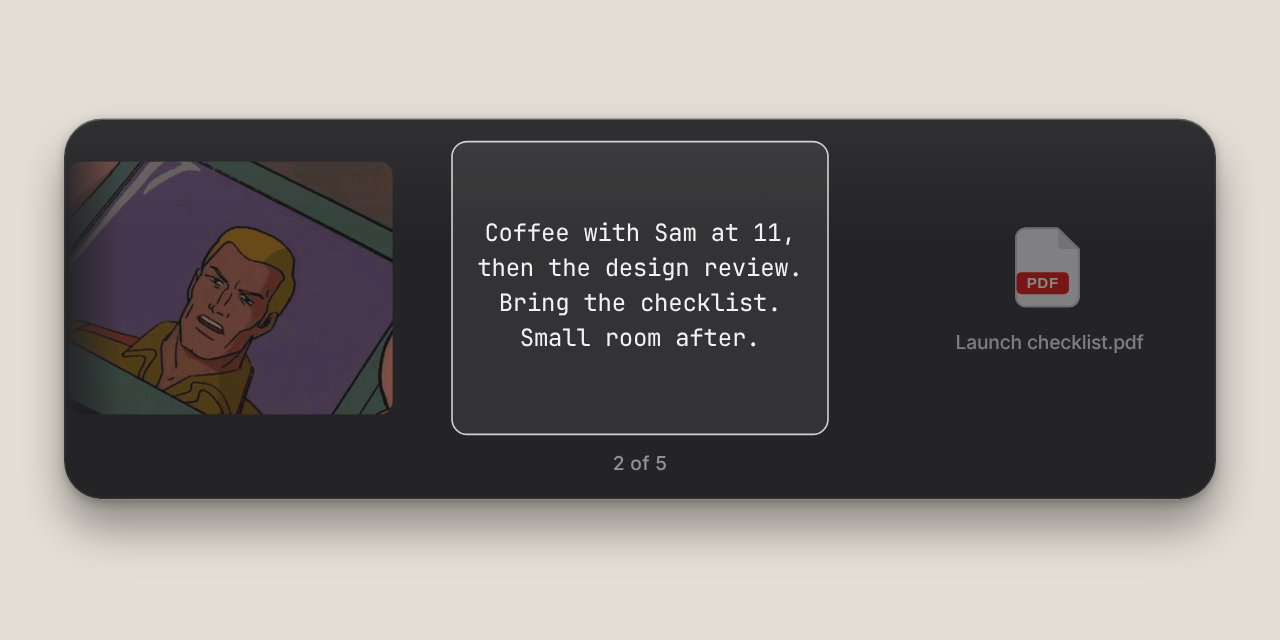
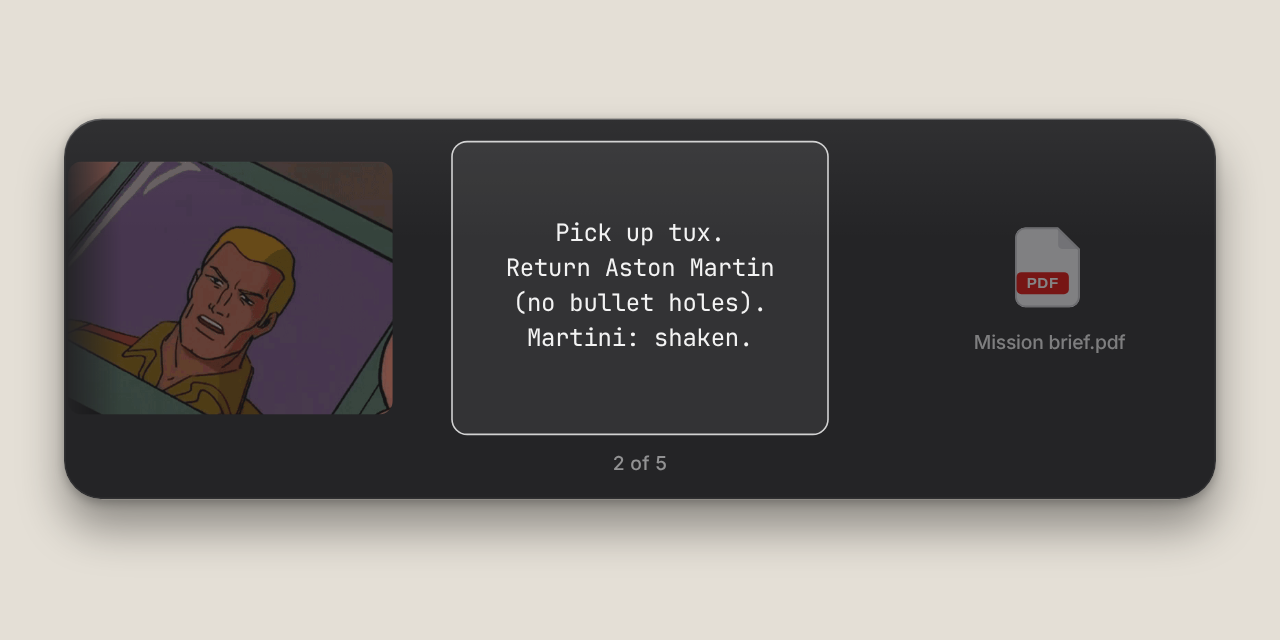
Replace the bezel sample with a shorter note
The demo line is four lines, from picking up the tux to the martini, and the file beside it is Mission brief.pdf. The lab frames were reshot from that copy.

Changed region(s): [[0.375, 0.4062, 0.625, 0.5625], [0.375, 0.3438, 0.625, 0.375], [0.75, 0.5312, 0.9062, 0.5625]]

diff --git a/lab/bezel-2/frames.html b/lab/bezel-2/frames.html
@@ -23,10 +23,10 @@
           <div class="ring"></div>
           <div class="strip">
             <div class="item image pos-l"><img src="assets/portrait.png" alt=""></div>
-            <div class="item text pos-c"><p>Coffee with Sam at 11,<br>then the design review.<br>Bring the checklist.<br>Small room after.</p></div>
+            <div class="item text pos-c"><p>Pick up tux.<br>Return Aston Martin<br>(no bullet holes).<br>Martini: shaken.</p></div>
             <div class="item file pos-r">
               <img class="glyph" src="assets/pdf.svg" alt="">
-              <span class="name">Launch checklist.pdf</span>
+              <span class="name">Mission brief.pdf</span>
             </div>
           </div>
           <p class="counter">2 of 5</p>
@@ -43,10 +43,10 @@
         <div class="surface">
           <div class="strip">
             <div class="item image pos-l"><img src="assets/portrait.png" alt=""></div>
-            <div class="item text pos-c"><p>Coffee with Sam at 11,<br>then the design review.<br>Bring the checklist.<br>Small room. Send notes<br>once you leave, and<br>the file with them.</p></div>
+            <div class="item text pos-c"><p>Pick up tux.<br>Return Aston Martin<br>(no bullet holes).<br>Martini: shaken.</p></div>
             <div class="item file pos-r">
               <img class="glyph" src="assets/pdf.svg" alt="">
-              <span class="name">Launch checklist.pdf</span>
+              <span class="name">Mission brief.pdf</span>
             </div>
           </div>
           <p class="counter">2 of 5</p>
@@ -63,11 +63,11 @@
       <div class="bezel">
         <div class="surface">
           <div class="strip">
-            <div class="item text pos-l"><p>Coffee with Sam at 11,<br>then the design review.<br>Bring the checklist.<br>Small room after.</p></div>
+            <div class="item text pos-l"><p>Pick up tux.<br>Return Aston Martin<br>(no bullet holes).<br>Martini: shaken.</p></div>
             <div class="item image pos-c"><img src="assets/portrait.png" alt=""></div>
             <div class="item file pos-r">
               <img class="glyph" src="assets/pdf.svg" alt="">
-              <span class="name">Launch checklist.pdf</span>
+              <span class="name">Mission brief.pdf</span>
             </div>
           </div>
           <p class="counter">2 of 5</p>
@@ -81,21 +81,21 @@
     <p class="idea">Opened over a note. The diary line stays outside the glass.</p>
     <div class="stage v4">
       <p class="kicker">Thursday</p>
-      <p class="lead">Sam at eleven.</p>
+      <p class="lead">Pick up tux.</p>
       <div class="bezel">
         <div class="surface">
           <div class="strip">
             <div class="item image pos-l"><img src="assets/portrait.png" alt=""></div>
-            <div class="item text pos-c"><p>Coffee with Sam at 11,<br>then the design review.<br>Bring the checklist.<br>Small room after.</p></div>
+            <div class="item text pos-c"><p>Pick up tux.<br>Return Aston Martin<br>(no bullet holes).<br>Martini: shaken.</p></div>
             <div class="item file pos-r">
               <img class="glyph" src="assets/pdf.svg" alt="">
-              <span class="name">Launch checklist.pdf</span>
+              <span class="name">Mission brief.pdf</span>
             </div>
           </div>
           <p class="counter">2 of 5</p>
         </div>
       </div>
-      <p class="tail">Then the design review.</p>
+      <p class="tail">Martini: shaken.</p>
     </div>
   </section>
 
@@ -106,10 +106,10 @@
       <div class="bezel">
         <div class="surface">
           <div class="strip">
-            <div class="item text pos-l"><p>Coffee with Sam at 11,<br>then the design review.<br>Bring the checklist.<br>Small room after.</p></div>
+            <div class="item text pos-l"><p>Pick up tux.<br>Return Aston Martin<br>(no bullet holes).<br>Martini: shaken.</p></div>
             <div class="item file pos-c">
               <img class="glyph" src="assets/pdf.svg" alt="">
-              <span class="name">Launch checklist.pdf</span>
+              <span class="name">Mission brief.pdf</span>
             </div>
             <div class="item text pos-r"><p>git rebase<br>--autosquash<br>origin/main</p></div>
           </div>

diff --git a/Sources/RogerShot/DemoShot.swift b/Sources/RogerShot/DemoShot.swift
@@ -55,10 +55,15 @@ enum DemoShot: String {
     func seed(into store: HistoryStore, photo: URL?) {
         store.recordText("https://github.com/GeorgeGally/roger/releases")
         store.recordText("git rebase --autosquash origin/main")
-        let file = directory.appendingPathComponent("Launch checklist.pdf")
+        let file = directory.appendingPathComponent("Mission brief.pdf")
         FileManager.default.createFile(atPath: file.path, contents: Data())
         store.recordFiles([file])
-        store.recordText("Coffee with Sam at 11, then the design review.")
+        store.recordText("""
+        Pick up tux.
+        Return Aston Martin
+        (no bullet holes).
+        Martini: shaken.\
+        """)
         if let photo, let data = try? Data(contentsOf: photo) {
             store.recordPNG(data)
         }

diff --git a/lab/bezel-2/CRITIQUE.md b/lab/bezel-2/CRITIQUE.md
@@ -44,7 +44,7 @@ This is the README image. You get the object at its real proportion: one item br
 
 The same panel pulled in until the sentence is the picture.
 
-Six lines of the note, large enough that "Coffee with Sam at 11" still reads when the 1600px frame is shown around 500px wide. "2 of 5" survives at the bottom. The sides dissolve to black, so the crop does not slice a face in half. It is a poster of the clipboard, not a second colour of Still. A wall of mono is a specific taste; it is not pretty, and it is legible, which the old preview was not.
+Four lines of the note, large enough that "Return Aston Martin" still reads when the 1600px frame is shown around 500px wide. "2 of 5" survives at the bottom. The sides dissolve to black, so the crop does not slice a face in half. It is a poster of the clipboard, not a second colour of Still. A wall of mono is a specific taste; it is not pretty, and it is legible, which the old preview was not.
 
 ### 03 Face — 9
 
@@ -56,7 +56,7 @@ This is the one that stops a scroll. The selected card is the portrait, cover-cr
 
 The panel opened over a note. The diary line stays outside the glass.
 
-"Sam at eleven." is set large, left, in a serif, with "Thursday" above it and "Then the design review." below. The panel sits between them and does not cover either line. It says the same appointment twice, once as a page and once as the thing you copied, which is the point and also the risk: a hurried reader thinks the headline is the product. No button, no gradient, no glow. Useful if the README needs words and a picture together. Face is the stronger post.
+"Pick up tux." is set large, left, in a serif, with "Thursday" above it and "Martini: shaken." below. The panel sits between them and does not cover either line. It says the same appointment twice, once as a page and once as the thing you copied, which is the point and also the risk: a hurried reader thinks the headline is the product. No button, no gradient, no glow. Useful if the README needs words and a picture together. Face is the stronger post.
 
 ### 05 Name — 8
 
